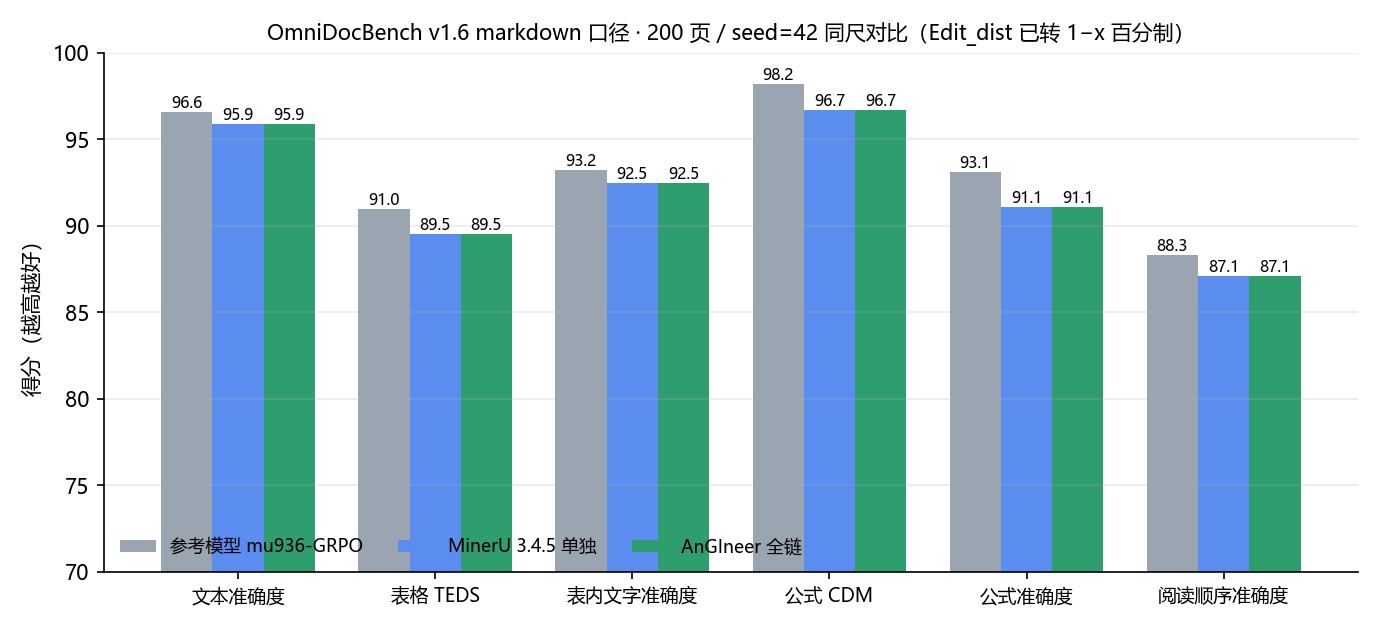
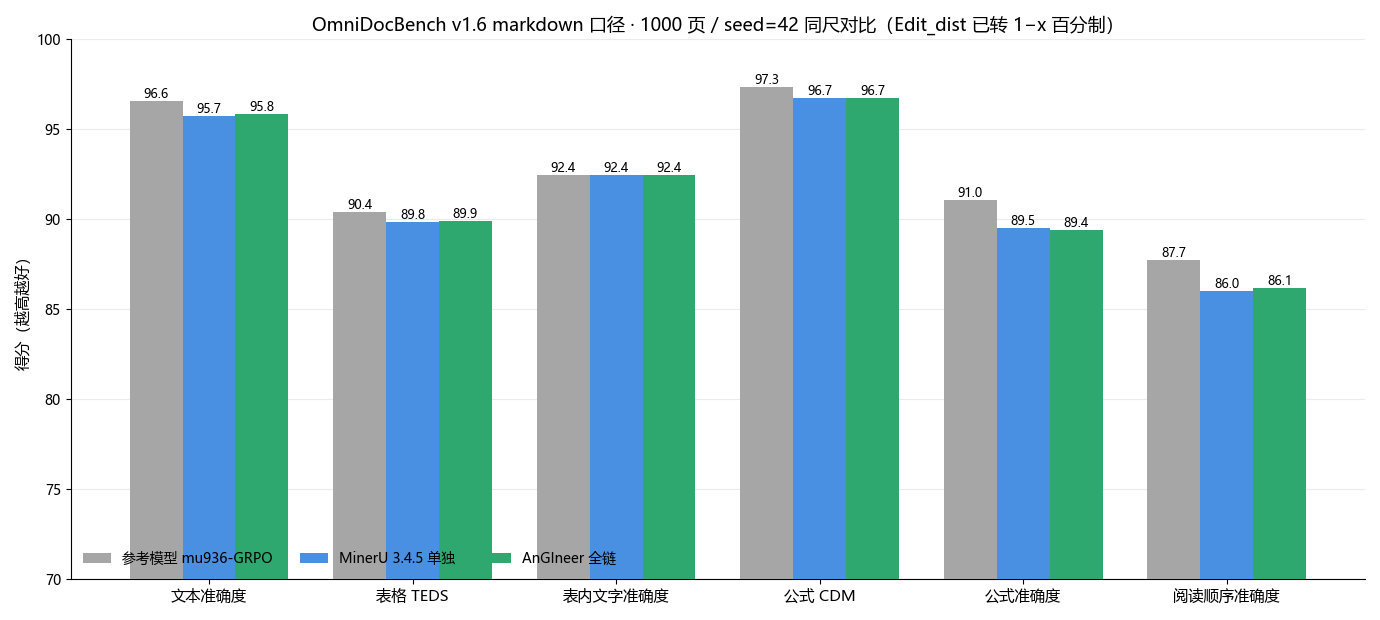
feat(readme-assets): A 层 1000 页基线两张首页图 + 可复现绘图脚本——三方同尺对比图（参考模型/MinerU 单独/我们全链，同 1000 页集合真跑：文本 95.8/95.7、CDM 96.7/96.7、TEDS 89.9/89.8，六项差 ≤0.2pp 重合成立）与 1000 页成绩单（绿=A① 官方口径、蓝=A② 结构层：块召回 89.7、命中相似度 89.8）；MinerU 单独 md 取自评测库 mineru_raw origin.zip、参考模型 md 取自评测镜像自带 data_md，均经官方镜像在同页集合评测

diff --git a/scripts/make_omnidocbench_compare_chart.py b/scripts/make_omnidocbench_compare_chart.py
@@ -1,0 +1,161 @@
+"""A① 三方同尺对比图 + 1000 页现行基线成绩单（README 首页用图）。
+
+数据源 = 各方官方评测产物目录（predictions_quick_match_metric_result.json），
+经 parse_regression.load_official_metrics 扁平化；Edit_dist 转 `1−x` 百分制、
+TEDS/CDM 原值百分制——六个指标统一"越高越好"。基线图另读 struct_chain.json
+的 A② 结构层指标（蓝柱，自建口径，与 A① 官方口径颜色区分）。
+
+用法（默认路径即 2026-09-26 1000 页基线的产物目录）：
+  python scripts/make_omnidocbench_compare_chart.py
+  # 可选：--ours/--mineru/--ref <官方产物目录> --struct <struct_chain.json>
+  #       --title-suffix "1000 页 / seed=42" --out <png> --baseline-out <png>
+"""
+import argparse
+import sys
+from pathlib import Path
+
+REPO = Path(__file__).resolve().parents[1]
+sys.path.insert(0, str(REPO / "services" / "evals-core" / "src"))
+
+from evals_core.parse_regression import load_official_metrics  # noqa: E402
+
+# (标签, 键, 是否 Edit_dist 转百分制)
+METRICS = [
+    ("文本准确度", "text_edit", True),
+    ("表格 TEDS", "table_teds", False),
+    ("表内文字准确度", "table_edit", True),
+    ("公式 CDM", "formula_cdm", False),
+    ("公式准确度", "formula_edit", True),
+    ("阅读顺序准确度", "order_edit", True),
+]
+SERIES = [  # (图例, 默认产物目录, 颜色)
+    ("参考模型 mu936-GRPO", REPO.parent / "omnidocbench_dl" / "ref_result_1000", "#a6a6a6"),
+    ("MinerU 3.4.5 单独", REPO.parent / "omnidocbench_dl" / "mineru_only_result_1000", "#4a90e2"),
+    ("AnGIneer 全链", REPO / "data" / "evals" / "parse_regression" / "20260926-1305" / "official", "#2fa870"),
+]
+
+
+def to_score(metrics: dict, key: str, invert: bool) -> float | None:
+    v = metrics.get(key)
+    if v is None:
+        return None
+    return (1.0 - v if invert else v) * 100.0
+
+
+def make_baseline_chart(struct_metrics: dict, official: dict, out: Path, title_suffix: str) -> None:
+    import matplotlib
+
+    matplotlib.use("Agg")
+    import matplotlib.pyplot as plt
+
+    plt.rcParams["font.sans-serif"] = ["Microsoft YaHei", "SimHei"]
+    plt.rcParams["axes.unicode_minus"] = False
+
+    # (标签, 值, 颜色)：绿=A① 官方 markdown 口径；蓝=A② 结构层（自建口径）
+    bars = [(label, to_score(official, key, inv), "#2fa870") for label, key, inv in METRICS]
+    struct_bars = [
+        ("块召回率", struct_metrics.get("block_recall"), "#4a90e2"),
+        ("块文本相似度\n（命中项）", struct_metrics.get("text_similarity_matched"), "#4a90e2"),
+    ]
+    bars += [(label, v * 100.0 if v is not None else None, c) for label, v, c in struct_bars]
+
+    fig, ax = plt.subplots(figsize=(13.0, 6.0), dpi=100)
+    for i, (label, score, color) in enumerate(bars):
+        if score is None:
+            continue
+        rect = ax.bar(i, score, width=0.62, color=color, zorder=3)[0]
+        ax.annotate(f"{score:.1f}", (rect.get_x() + rect.get_width() / 2, score),
+                    ha="center", va="bottom", fontsize=10)
+    ax.set_xticks(range(len(bars)))
+    ax.set_xticklabels([b[0] for b in bars], fontsize=10)
+    ax.set_ylim(70, 100)
+    ax.set_ylabel("得分（越高越好）", fontsize=11)
+    ax.set_title(f"文档解析现行基线 · {title_suffix}（绿=A① 官方 markdown 口径，蓝=A② 结构层自建口径）",
+                 fontsize=12.5)
+    ax.grid(axis="y", alpha=0.25, zorder=0)
+    for spine in ("top", "right"):
+        ax.spines[spine].set_visible(False)
+    fig.tight_layout()
+    out.parent.mkdir(parents=True, exist_ok=True)
+    fig.savefig(out)
+    print(f"基线图已生成 → {out}")
+
+
+def main() -> int:
+    import matplotlib
+
+    matplotlib.use("Agg")
+    import matplotlib.pyplot as plt
+
+    plt.rcParams["font.sans-serif"] = ["Microsoft YaHei", "SimHei"]
+    plt.rcParams["axes.unicode_minus"] = False
+
+    ap = argparse.ArgumentParser(description=__doc__)
+    ap.add_argument("--ours", default=str(SERIES[2][1]))
+    ap.add_argument("--mineru", default=str(SERIES[1][1]))
+    ap.add_argument("--ref", default=str(SERIES[0][1]))
+    ap.add_argument("--title-suffix", default="1000 页 / seed=42")
+    ap.add_argument("--out", default=str(REPO / "docs" / "images" / "omnidocbench-compare.png"))
+    ap.add_argument("--struct", default=str(REPO / "data" / "evals" / "parse_regression" / "20260926-1305" / "struct_chain.json"))
+    ap.add_argument("--baseline-out", default=str(REPO / "docs" / "images" / "omnidocbench-baseline-1000.png"))
+    args = ap.parse_args()
+
+    dirs = {"ref": Path(args.ref), "mineru": Path(args.mineru), "ours": Path(args.ours)}
+    series = [
+        (SERIES[0][0], dirs["ref"], SERIES[0][2]),
+        (SERIES[1][0], dirs["mineru"], SERIES[1][2]),
+        (SERIES[2][0], dirs["ours"], SERIES[2][2]),
+    ]
+    data, missing = [], []
+    for label, d, color in series:
+        m = load_official_metrics(d)
+        scores = [to_score(m, k, inv) for _, k, inv in METRICS]
+        if all(s is None for s in scores):
+            missing.append(f"{label}（{d}）")
+        data.append((label, scores, color))
+    if missing:
+        print("!! 缺官方产物，对应系列将为空：", "; ".join(missing))
+
+    fig, ax = plt.subplots(figsize=(13.8, 6.2), dpi=100)
+    width, gap = 0.26, 0.0
+    xs = range(len(METRICS))
+    for i, (label, scores, color) in enumerate(data):
+        pos = [x + (i - 1) * (width + gap) for x in xs]
+        vals = [s if s is not None else 0 for s in scores]
+        bars = ax.bar(pos, vals, width=width, label=label, color=color, zorder=3)
+        for rect, s in zip(bars, scores):
+            if s is not None:
+                ax.annotate(f"{s:.1f}", (rect.get_x() + rect.get_width() / 2, s),
+                            ha="center", va="bottom", fontsize=9)
+    ax.set_xticks(list(xs))
+    ax.set_xticklabels([label for label, _, _ in METRICS], fontsize=11)
+    ax.set_ylim(70, 100)
+    ax.set_ylabel("得分（越高越好）", fontsize=11)
+    ax.set_title(f"OmniDocBench v1.6 markdown 口径 · {args.title_suffix} 同尺对比"
+                 f"（Edit_dist 已转 1−x 百分制）", fontsize=13)
+    ax.legend(loc="lower left", ncol=3, frameon=False, fontsize=10)
+    ax.grid(axis="y", alpha=0.25, zorder=0)
+    for spine in ("top", "right"):
+        ax.spines[spine].set_visible(False)
+    fig.tight_layout()
+    out = Path(args.out)
+    out.parent.mkdir(parents=True, exist_ok=True)
+    fig.savefig(out)
+    print(f"图已生成 → {out}")
+    for (label, _, _), (_, scores, _) in zip(series, data):
+        printable = " / ".join("—" if s is None else f"{s:.2f}" for s in scores)
+        print(f"  {label}: {printable}")
+
+    from evals_core.parse_regression import load_structure_metrics
+    struct_path = Path(args.struct)
+    struct_metrics = load_structure_metrics(struct_path) if struct_path.is_file() else {}
+    if struct_metrics:
+        ours_metrics = load_official_metrics(dirs["ours"])
+        make_baseline_chart(struct_metrics, ours_metrics, Path(args.baseline_out), args.title_suffix)
+    else:
+        print(f"!! 跳过基线图：struct_chain.json 不存在或无指标（{struct_path}）")
+    return 0
+
+
+if __name__ == "__main__":
+    sys.exit(main())
